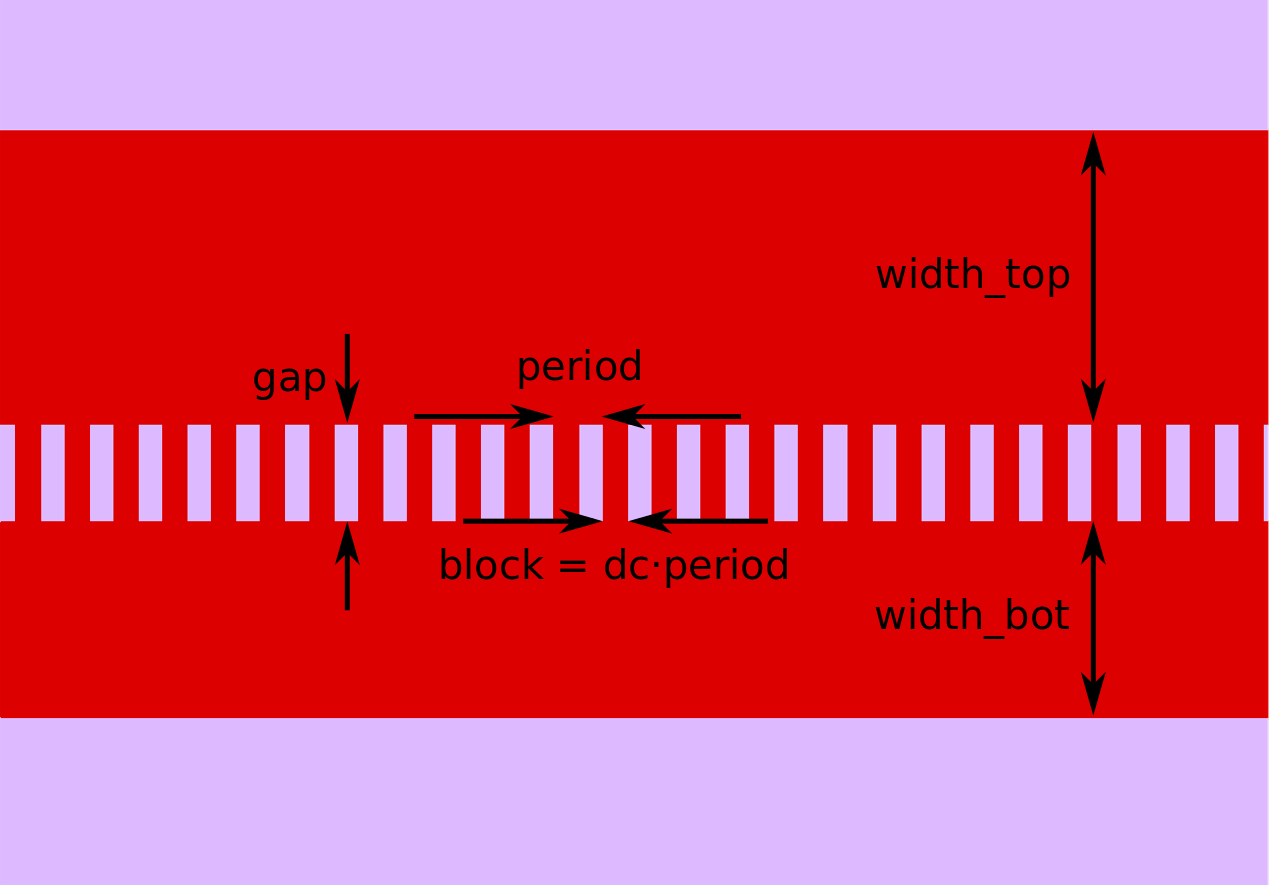
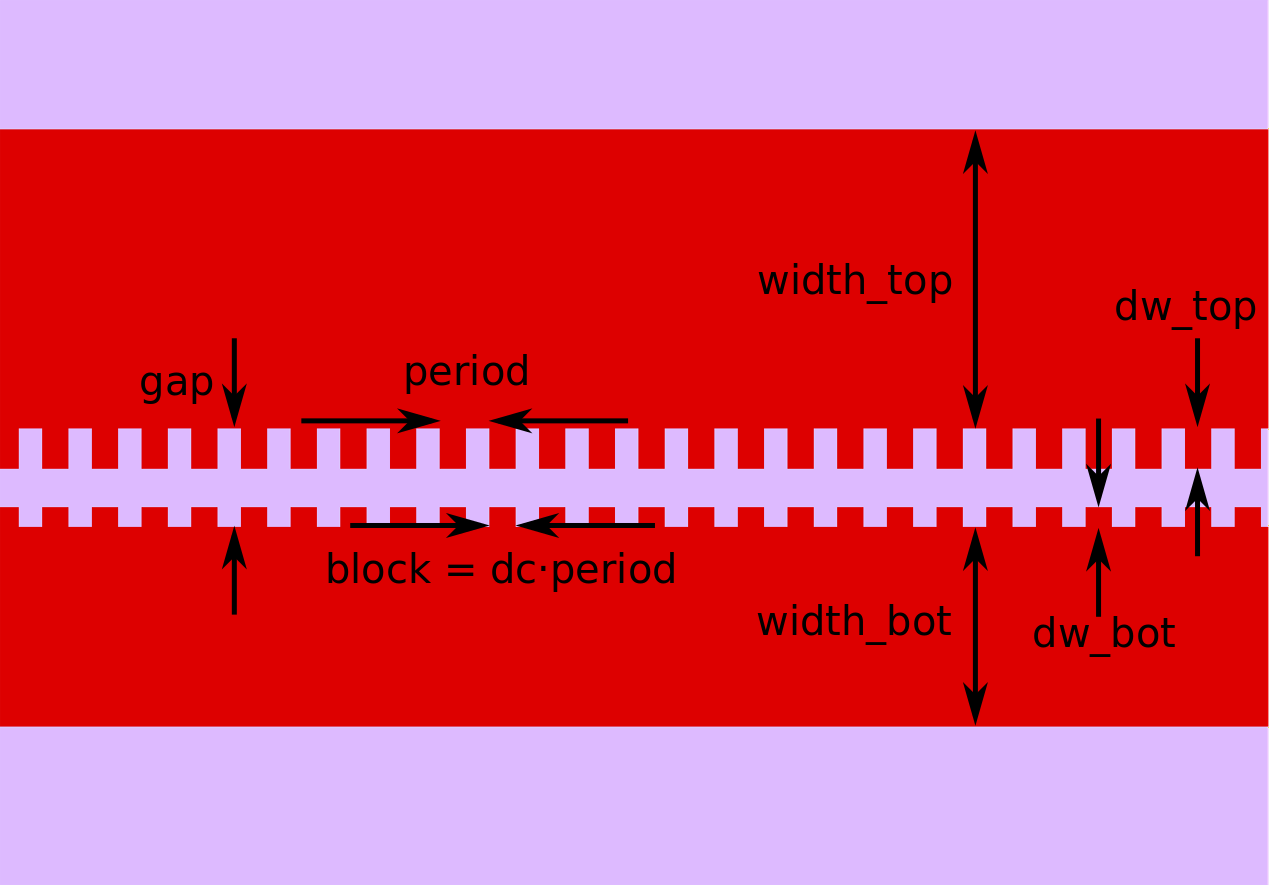
update contradc

Changed region(s): [[0.0, 0.1525, 1.0, 0.8237], [0.7376, 0.1525, 0.7991, 0.2136]]

diff --git a/picwriter/components/contradc.py b/picwriter/components/contradc.py
@@ -21,6 +21,8 @@ class ContraDirectionalCoupler(gdspy.Cell):
            * **angle** (float): Angle in radians (between 0 and pi/2) at which the waveguide bends towards the coupling region.  Default=pi/6.
            * **width_top** (float): Width of the top waveguide in the coupling region.  Defaults to the WaveguideTemplate wg width.
            * **width_bot** (float): Width of the bottom waveguide in the coupling region.  Defaults to the WaveguideTemplate wg width.
+           * **dw_top** (float): Amplitude of the width variation on the top.  Default=gap/2.0.
+           * **dw_bot** (float): Amplitude of the width variation on the bottom.  Default=gap/2.0.
            * **input_bot** (boolean): If `True`, will make the default input the bottom waveguide (rather than the top).  Default=`False`
            * **fins** (boolean): If `True`, adds fins to the input/output waveguides.  In this case a different template for the component must be specified.  This feature is useful when performing electron-beam lithography and using different beam currents for fine features (helps to reduce stitching errors).  Defaults to `False`
            * **fin_size** ((x,y) Tuple): Specifies the x- and y-size of the `fins`.  Defaults to 200 nm x 50 nm
@@ -41,7 +43,7 @@ class ContraDirectionalCoupler(gdspy.Cell):
         'Direction' points *towards* the waveguide that will connect to it.
 
     """
-    def __init__(self, wgt, length, gap, period, dc, angle=np.pi/6.0, width_top=None, width_bot=None, input_bot=False, fins=False, fin_size=(0.2, 0.05), contradc_wgt=None, port=(0,0), direction='EAST'):
+    def __init__(self, wgt, length, gap, period, dc, angle=np.pi/6.0, width_top=None, width_bot=None, dw_top=None, dw_bot=None, input_bot=False, fins=False, fin_size=(0.2, 0.05), contradc_wgt=None, port=(0,0), direction='EAST'):
         gdspy.Cell.__init__(self, "ContraDC--"+str(uuid.uuid4()))
 
         self.portlist = {}
@@ -67,6 +69,9 @@ class ContraDirectionalCoupler(gdspy.Cell):
             self.parity = -1
         else:
             self.parity = 1
+
+        self.dw_top = gap/2.0 if dw_top==None else dw_top
+        self.dw_bot = gap/2.0 if dw_bot==None else dw_bot
         self.length = length
         self.gap = gap
         self.dc = dc
@@ -148,7 +153,8 @@ class ContraDirectionalCoupler(gdspy.Cell):
         block_list = []
         for i in range(int(num_blocks)):
             x = startx + i*self.period
-            block_list.append(gdspy.Rectangle((x, y0-self.gap/2.0), (x+blockx, y0+self.gap/2.0), **self.wg_spec))
+            block_list.append(gdspy.Rectangle((x, y0-self.gap/2.0), (x+blockx, y0-self.gap/2.0+self.dw_bot), **self.wg_spec))
+            block_list.append(gdspy.Rectangle((x, y0+self.gap/2.0), (x+blockx, y0+self.gap/2.0-self.dw_top), **self.wg_spec))
 
         """ And add the 'fins' if self.fins==True """
         if self.fins:
@@ -228,15 +234,16 @@ if __name__ == "__main__":
     # cdc = ContraDirectionalCoupler(wgt, length=30.0, gap=1.0, period=0.5, dc=0.5, angle=np.pi/12.0, width_top=3.0, width_bot=2.0, input_bot=True, **wg1.portlist["output"])
     # tk.add(top, cdc)
 
-    wg1=Waveguide([(0,0), (0,100), (50,200), (50, 215)], wgt)
+    # wg1=Waveguide([(0,0), (0,100), (50,200), (50, 215)], wgt)
+    wg1=Waveguide([(0,0), (100,0)], wgt)
     tk.add(top, wg1)
 
-    cdc2 = ContraDirectionalCoupler(wgt, length=30.0, gap=1.0, period=0.5, dc=0.5, angle=np.pi/12.0, width_top=3.0, width_bot=2.0, input_bot=False, contradc_wgt=contradc_wgt, fins=True, **wg1.portlist["output"])
+    cdc2 = ContraDirectionalCoupler(wgt, length=30.0, gap=1.0, period=0.5, dc=0.5, angle=np.pi/12.0, width_top=3.0, width_bot=2.0, dw_top=0.4, dw_bot=0.2, input_bot=False, contradc_wgt=contradc_wgt, fins=True, **wg1.portlist["output"])
     tk.add(top, cdc2)
 
-    x0,y0 = cdc2.portlist["input_bot"]["port"]
-    wg2=Waveguide([(x0,y0), (x0,y0-15), (x0+50,y0-115), (x0+50, y0-215)], wgt)
-    tk.add(top, wg2)
+    # x0,y0 = cdc2.portlist["input_bot"]["port"]
+    # wg2=Waveguide([(x0,y0), (x0,y0-15), (x0+50,y0-115), (x0+50, y0-215)], wgt)
+    # tk.add(top, wg2)
 
     # dc1 = ContraDirectionalCoupler(wgt, length=30.0, gap=0.5, period=0.220, dc=0.5, angle=np.pi/6.0, width_top=2.0, width_bot=0.75, input_bot=False, **wg1.portlist["output"])
     # dc2 = ContraDirectionalCoupler(wgt, length=30.0, gap=0.5, period=0.220, dc=0.5, angle=np.pi/6.0, width_top=2.0, width_bot=0.75, input_bot=True, **dc1.portlist["output_top"])
@@ -251,5 +258,5 @@ if __name__ == "__main__":
     # tk.add(top, dc5)
     # tk.add(top, dc6)
 
-    gdspy.LayoutViewer()
-    # gdspy.write_gds('contradc.gds', unit=1.0e-6, precision=1.0e-9)
+    # gdspy.LayoutViewer(cells=top)
+    gdspy.write_gds('contradc.gds', unit=1.0e-6, precision=1.0e-9)
